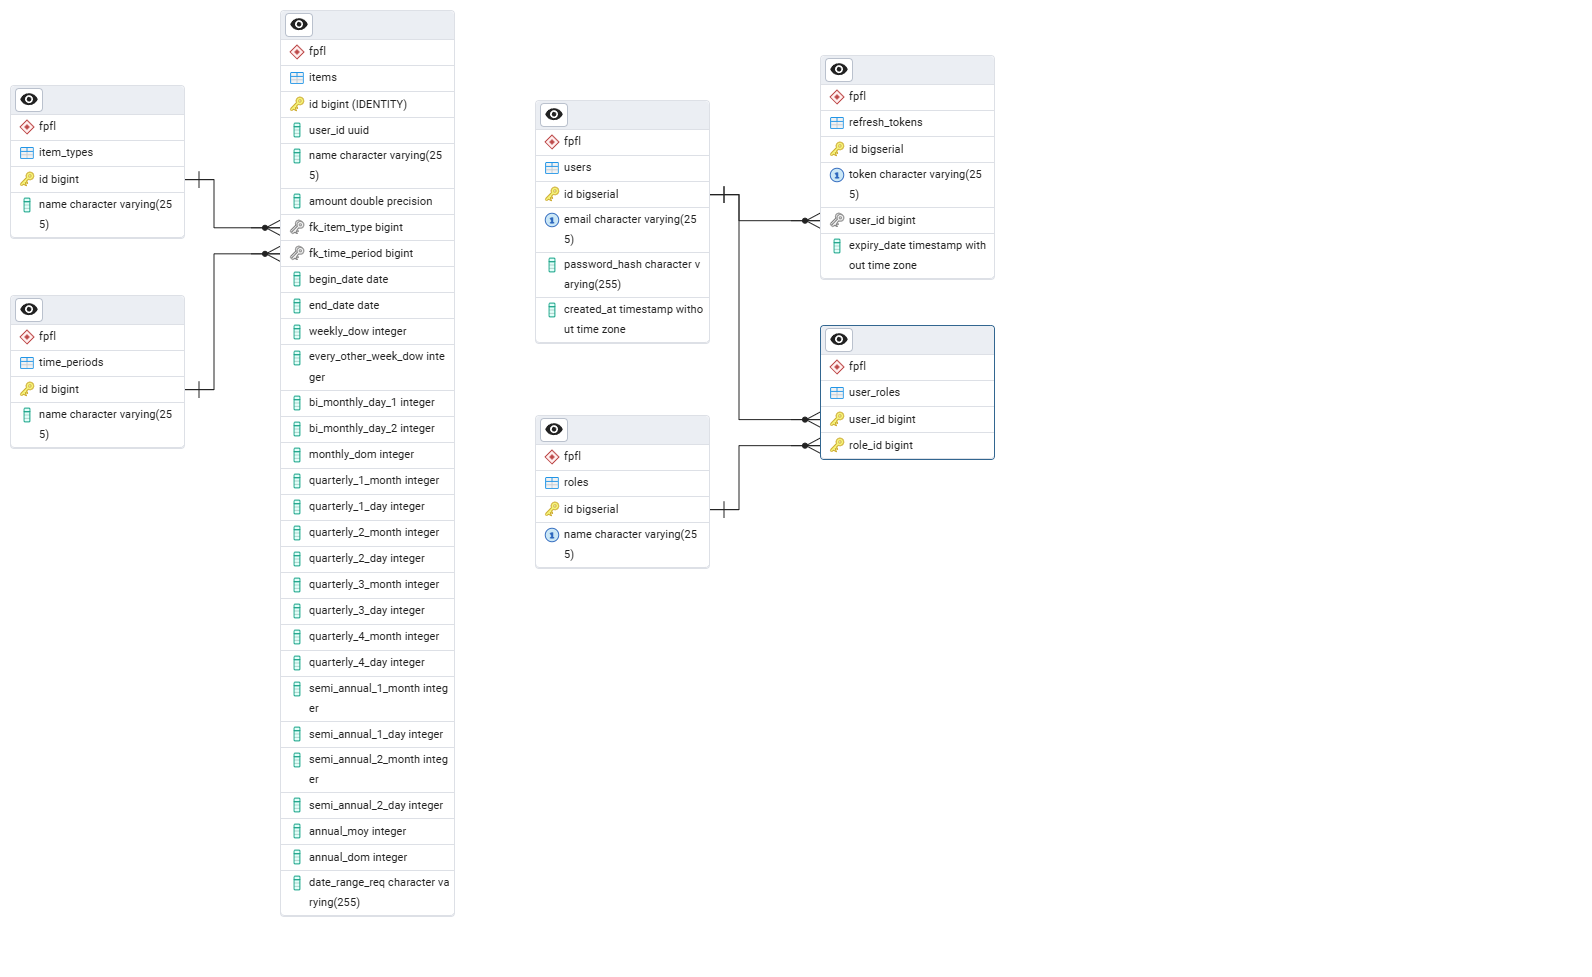
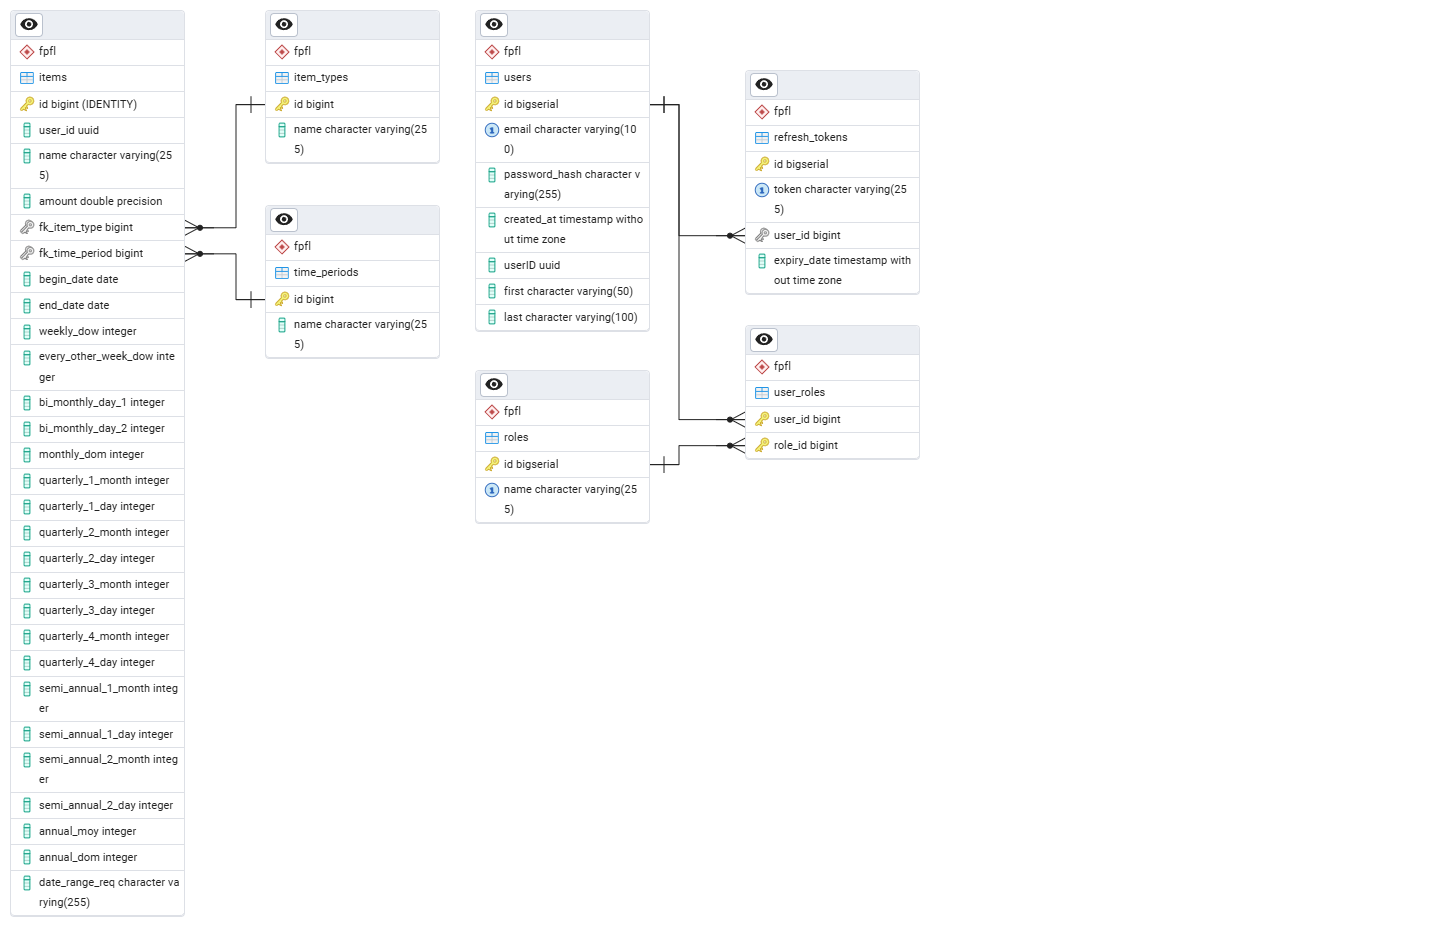
Enhance authentication module to include first and last name during registration and login

diff --git a/API-JDK/module-auth/src/main/java/com/financialplanner/moduleauth/application/service/UserServiceImpl.java b/API-JDK/module-auth/src/main/java/com/financialplanner/moduleauth/application/service/UserServiceImpl.java
@@ -2,6 +2,7 @@ package com.financialplanner.moduleauth.application.service;
 
 import com.financialplanner.moduleauth.domain.repository.UserRepository;
 import com.financialplanner.moduleauth.domain.service.UserService;
+import com.financialplanner.moduleauth.infrastructure.persistence.entity.Role;
 import com.financialplanner.moduleauth.infrastructure.persistence.entity.User;
 import org.springframework.security.crypto.password.PasswordEncoder;
 import org.springframework.stereotype.Service;
@@ -9,6 +10,7 @@ import org.springframework.transaction.annotation.Transactional;
 
 import java.util.Optional;
 import java.util.Set;
+import java.util.UUID;
 
 @Service
 public class UserServiceImpl implements UserService {
@@ -16,28 +18,32 @@ public class UserServiceImpl implements UserService {
     private final UserRepository userRepository;
     private final PasswordEncoder passwordEncoder;
 
-    public UserServiceImpl(UserRepository userRepository,
-                           PasswordEncoder passwordEncoder) {
-        this.userRepository = userRepository;
+    public UserServiceImpl(UserRepository userRepository, PasswordEncoder passwordEncoder) {
+        this.userRepository  = userRepository;
         this.passwordEncoder = passwordEncoder;
     }
 
     @Override
-    @Transactional(readOnly = true)
     public Optional<User> findByEmail(String email) {
         return userRepository.findByEmail(email);
     }
 
     @Override
-    @Transactional(readOnly = true)
     public Optional<User> findById(Long id) {
         return userRepository.findById(id);
     }
 
     @Override
+    public Optional<User> findByUserID(UUID userID) {
+        return userRepository.findByUserID(userID);
+    }
+
+    @Override
     @Transactional
-    public User createUser(String email, String rawPassword, Set<com.financialplanner.moduleauth.infrastructure.persistence.entity.Role> roles) {
-        if (userRepository.findByEmail(email).isPresent()) {
+    public User createUser(String email, String rawPassword, Set<Role> roles, String first, String last) {
+
+        if (userRepository.findByEmail(email)
+                          .isPresent()) {
             throw new IllegalArgumentException("Email already registered");
         }
 
@@ -45,23 +51,15 @@ public class UserServiceImpl implements UserService {
         user.setEmail(email);
         user.setPasswordHash(passwordEncoder.encode(rawPassword));
         user.setRoles(roles);
+        user.setFirst(first);
+        user.setLast(last);
 
-        User saved = userRepository.save(user);
-        // If downstream code uses native SQL or separate EntityManager, you can force a flush here
-        // by exposing EntityManager and calling entityManager.flush() — only if necessary.
-        return saved;
-    }
-
-    @Override
-    @Transactional
-    public User save(User user) {
+        // userID + created_at are generated by PostgreSQL defaults
         return userRepository.save(user);
     }
 
     @Override
-    @Transactional
-    public void deleteById(Long id) {
-        userRepository.findById(id).ifPresent(userRepository::save); // or implement delete in repository if available
-        // If you have a delete method on the JPA adapter, call it here instead.
+    public User save(User user) {
+        return userRepository.save(user);
     }
 }

diff --git a/API-JDK/module-api/src/main/java/com/financialplanner/moduleapi/controllers/AuthController.java b/API-JDK/module-api/src/main/java/com/financialplanner/moduleapi/controllers/AuthController.java
@@ -18,7 +18,6 @@ import org.springframework.web.bind.annotation.RestController;
 
 import java.util.Map;
 import java.util.Set;
-import java.util.stream.Collectors;
 
 @RestController
 @RequestMapping("/auth")
@@ -37,9 +36,8 @@ public class AuthController {
     @PostMapping("/register")
     public ResponseEntity<AuthResponse> register(@Valid @RequestBody RegisterRequest request) {
 
-        User user = authService.register(request.email(), request.password());
+        User user = authService.register(request.email(), request.password(), request.first(), request.last());
 
-        // Build roles as a list of names for JWT claims
         var roleNames = user.getRoles()
                             .stream()
                             .map(Role::getName)
@@ -49,36 +47,29 @@ public class AuthController {
 
         var refreshToken = refreshTokenService.createRefreshToken(user.getId());
 
-        Set<String> roles = roleNames.stream()
-                                     .collect(Collectors.toSet());
-
-        var response = new AuthResponse(accessToken, refreshToken.getToken(), user.getId(), user.getEmail(), roles);
+        var response = new AuthResponse(accessToken, refreshToken.getToken(), user.getId(), user.getEmail(),
+                                        user.getUserID(), user.getFirst(), user.getLast(), Set.copyOf(roleNames));
 
         return ResponseEntity.ok(response);
     }
 
+
     @PostMapping("/login")
     public ResponseEntity<AuthResponse> login(@Valid @RequestBody LoginRequest request) {
 
-        // Authenticate user (AuthServiceImpl.login checks password)
         User user = authService.login(request.email(), request.password());
 
-        // Map roles to simple names for JWT claims
         var roleNames = user.getRoles()
                             .stream()
                             .map(Role::getName)
                             .toList();
 
-        // Generate access token with roles claim as a list of strings
         var accessToken = jwtService.generateToken(user.getEmail(), Map.of("roles", roleNames));
 
-        // Create refresh token (persisted UUID)
         var refreshToken = refreshTokenService.createRefreshToken(user.getId());
 
-        Set<String> roles = roleNames.stream()
-                                     .collect(Collectors.toSet());
-
-        var response = new AuthResponse(accessToken, refreshToken.getToken(), user.getId(), user.getEmail(), roles);
+        var response = new AuthResponse(accessToken, refreshToken.getToken(), user.getId(), user.getEmail(),
+                                        user.getUserID(), user.getFirst(), user.getLast(), Set.copyOf(roleNames));
 
         return ResponseEntity.ok(response);
     }
@@ -93,7 +84,8 @@ public class AuthController {
 
         var user = refreshToken.getUser();
 
-        var roleNames = user.getRoles().stream()
+        var roleNames = user.getRoles()
+                            .stream()
                             .map(Role::getName)
                             .toList();
 

diff --git a/API-JDK/module-auth/src/main/java/com/financialplanner/moduleauth/infrastructure/persistence/entity/User.java b/API-JDK/module-auth/src/main/java/com/financialplanner/moduleauth/infrastructure/persistence/entity/User.java
@@ -1,7 +1,10 @@
 package com.financialplanner.moduleauth.infrastructure.persistence.entity;
 
 import jakarta.persistence.*;
+
+import java.time.Instant;
 import java.util.Set;
+import java.util.UUID;
 
 @lombok.Data
 @Entity
@@ -17,6 +20,18 @@ public class User {
 
     @Column(nullable = false)
     private String passwordHash;
+
+    @Column(name = "created_at", updatable = false, insertable = false)
+    private Instant createdAt;
+
+    @Column(name = "\"userID\"", nullable = false, updatable = false)
+    private UUID userID = UUID.randomUUID();
+
+    @Column(name = "first", length = 50)
+    private String first;
+
+    @Column(name = "last", length = 100)
+    private String last;
 
     @ManyToMany(fetch = FetchType.EAGER)
     @JoinTable(

diff --git a/API-JDK/module-auth/src/main/java/com/financialplanner/moduleauth/domain/service/UserService.java b/API-JDK/module-auth/src/main/java/com/financialplanner/moduleauth/domain/service/UserService.java
@@ -1,13 +1,21 @@
 package com.financialplanner.moduleauth.domain.service;
 
+import com.financialplanner.moduleauth.infrastructure.persistence.entity.Role;
 import com.financialplanner.moduleauth.infrastructure.persistence.entity.User;
 
 import java.util.Optional;
+import java.util.Set;
+import java.util.UUID;
 
 public interface UserService {
+
     Optional<User> findByEmail(String email);
+
     Optional<User> findById(Long id);
-    User createUser(String email, String rawPassword, java.util.Set<com.financialplanner.moduleauth.infrastructure.persistence.entity.Role> roles);
+
+    Optional<User> findByUserID(UUID userID);
+
+    User createUser(String email, String rawPassword, Set<Role> roles, String first, String last);
+
     User save(User user);
-    void deleteById(Long id);
 }

diff --git a/API-JDK/module-api/src/main/java/com/financialplanner/moduleapi/dtos/auth/RegisterRequest.java b/API-JDK/module-api/src/main/java/com/financialplanner/moduleapi/dtos/auth/RegisterRequest.java
@@ -14,5 +14,13 @@ public record RegisterRequest(
 
     @NotBlank(message = "Password is required")
     @Size(min = 8, message = "Password must be at least 8 characters")
-    String password
+    String password,
+
+    @NotBlank(message = "First name is required")
+    @Size(max = 50, message = "First name must be at most 50 characters")
+    String first,
+
+    @NotBlank(message = "Last name is required")
+    @Size(max = 100, message = "Last name must be at most 100 characters")
+    String last
 ) {}

diff --git a/API-JDK/module-api/src/main/java/com/financialplanner/moduleapi/dtos/auth/AuthResponse.java b/API-JDK/module-api/src/main/java/com/financialplanner/moduleapi/dtos/auth/AuthResponse.java
@@ -1,11 +1,15 @@
 package com.financialplanner.moduleapi.dtos.auth;
 
 import java.util.Set;
+import java.util.UUID;
 
 public record AuthResponse(
     String accessToken,
     String refreshToken,
-    Long userId,
+    Long id,
     String email,
+    UUID userID,
+    String first,
+    String last,
     Set<String> roles
 ) {}

diff --git a/API-JDK/module-auth/src/main/java/com/financialplanner/moduleauth/application/service/AuthServiceImpl.java b/API-JDK/module-auth/src/main/java/com/financialplanner/moduleauth/application/service/AuthServiceImpl.java
@@ -8,6 +8,8 @@ import org.springframework.security.crypto.password.PasswordEncoder;
 import org.springframework.stereotype.Service;
 import org.springframework.transaction.annotation.Transactional;
 
+import java.util.Set;
+
 @Service
 public class AuthServiceImpl implements AuthService {
 
@@ -23,13 +25,13 @@ public class AuthServiceImpl implements AuthService {
 
     @Override
     @Transactional
-    public User register(String email, String rawPassword) {
+    public User register(String email, String rawPassword, String first, String last) {
 
         // RoleService ensures ROLE_USER exists
         var userRole = roleService.ensureRoleExists("ROLE_USER");
 
         // Delegate creation to UserService (which handles duplicate check + encoding)
-        return userService.createUser(email, rawPassword, java.util.Set.of(userRole));
+        return userService.createUser(email, rawPassword, Set.of(userRole), first, last);
     }
 
     @Override

diff --git a/API-JDK/module-auth/src/main/java/com/financialplanner/moduleauth/infrastructure/persistence/adapter/UserRepositoryImpl.java b/API-JDK/module-auth/src/main/java/com/financialplanner/moduleauth/infrastructure/persistence/adapter/UserRepositoryImpl.java
@@ -6,6 +6,7 @@ import com.financialplanner.moduleauth.infrastructure.persistence.repository.Jpa
 import org.springframework.stereotype.Component;
 
 import java.util.Optional;
+import java.util.UUID;
 
 @Component
 public class UserRepositoryImpl implements UserRepository {
@@ -24,6 +25,11 @@ public class UserRepositoryImpl implements UserRepository {
     @Override
     public Optional<User> findById(Long id) {
         return jpa.findById(id);
+    }
+
+    @Override
+    public Optional<User> findByUserID(UUID userID) {
+        return jpa.findByUserID(userID);
     }
 
     @Override

diff --git a/API-JDK/module-auth/src/main/java/com/financialplanner/moduleauth/domain/repository/UserRepository.java b/API-JDK/module-auth/src/main/java/com/financialplanner/moduleauth/domain/repository/UserRepository.java
@@ -3,9 +3,14 @@ package com.financialplanner.moduleauth.domain.repository;
 import com.financialplanner.moduleauth.infrastructure.persistence.entity.User;
 
 import java.util.Optional;
+import java.util.UUID;
 
 public interface UserRepository {
     Optional<User> findByEmail(String email);
+
     Optional<User> findById(Long id);
+
+    Optional<User> findByUserID(UUID userID);
+
     User save(User user);
 }

diff --git a/API-JDK/module-auth/src/main/java/com/financialplanner/moduleauth/infrastructure/persistence/repository/JpaUserRepository.java b/API-JDK/module-auth/src/main/java/com/financialplanner/moduleauth/infrastructure/persistence/repository/JpaUserRepository.java
@@ -4,7 +4,10 @@ import com.financialplanner.moduleauth.infrastructure.persistence.entity.User;
 import org.springframework.data.jpa.repository.JpaRepository;
 
 import java.util.Optional;
+import java.util.UUID;
 
 public interface JpaUserRepository extends JpaRepository<User, Long> {
     Optional<User> findByEmail(String email);
+
+    Optional<User> findByUserID(UUID userID);
 }

diff --git a/API-JDK/module-auth/src/main/java/com/financialplanner/moduleauth/domain/service/AuthService.java b/API-JDK/module-auth/src/main/java/com/financialplanner/moduleauth/domain/service/AuthService.java
@@ -4,7 +4,7 @@ import com.financialplanner.moduleauth.infrastructure.persistence.entity.User;
 
 public interface AuthService {
 
-    User register(String email, String rawPassword);
+    User register(String email, String rawPassword, String first, String last);
 
     User login(String email, String rawPassword);
 